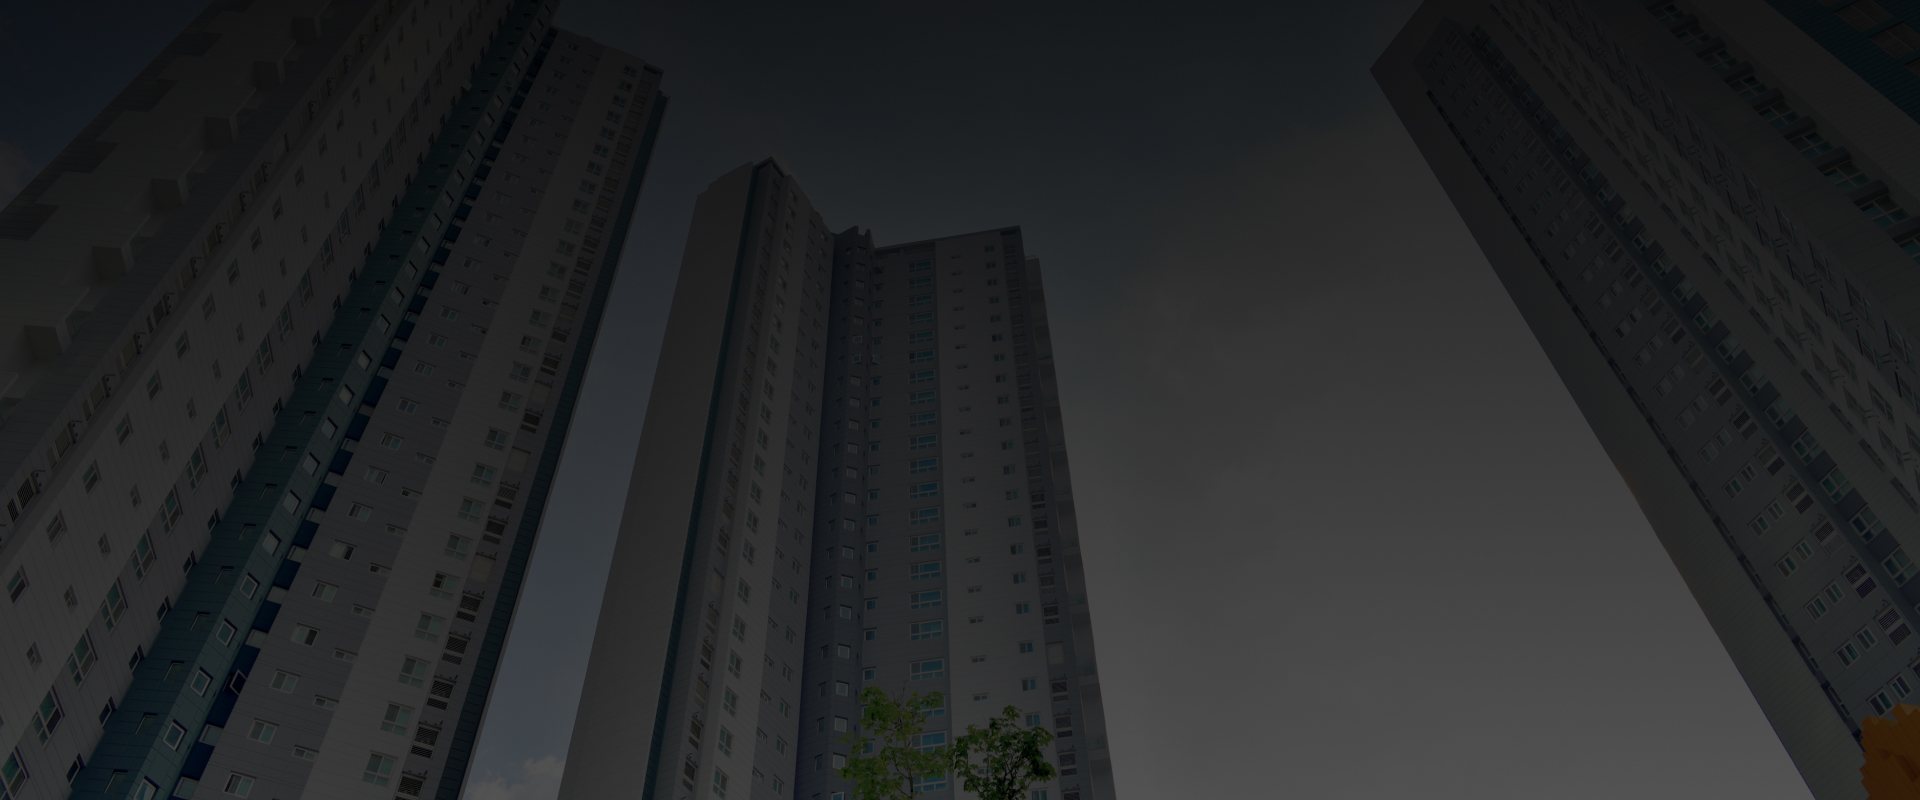
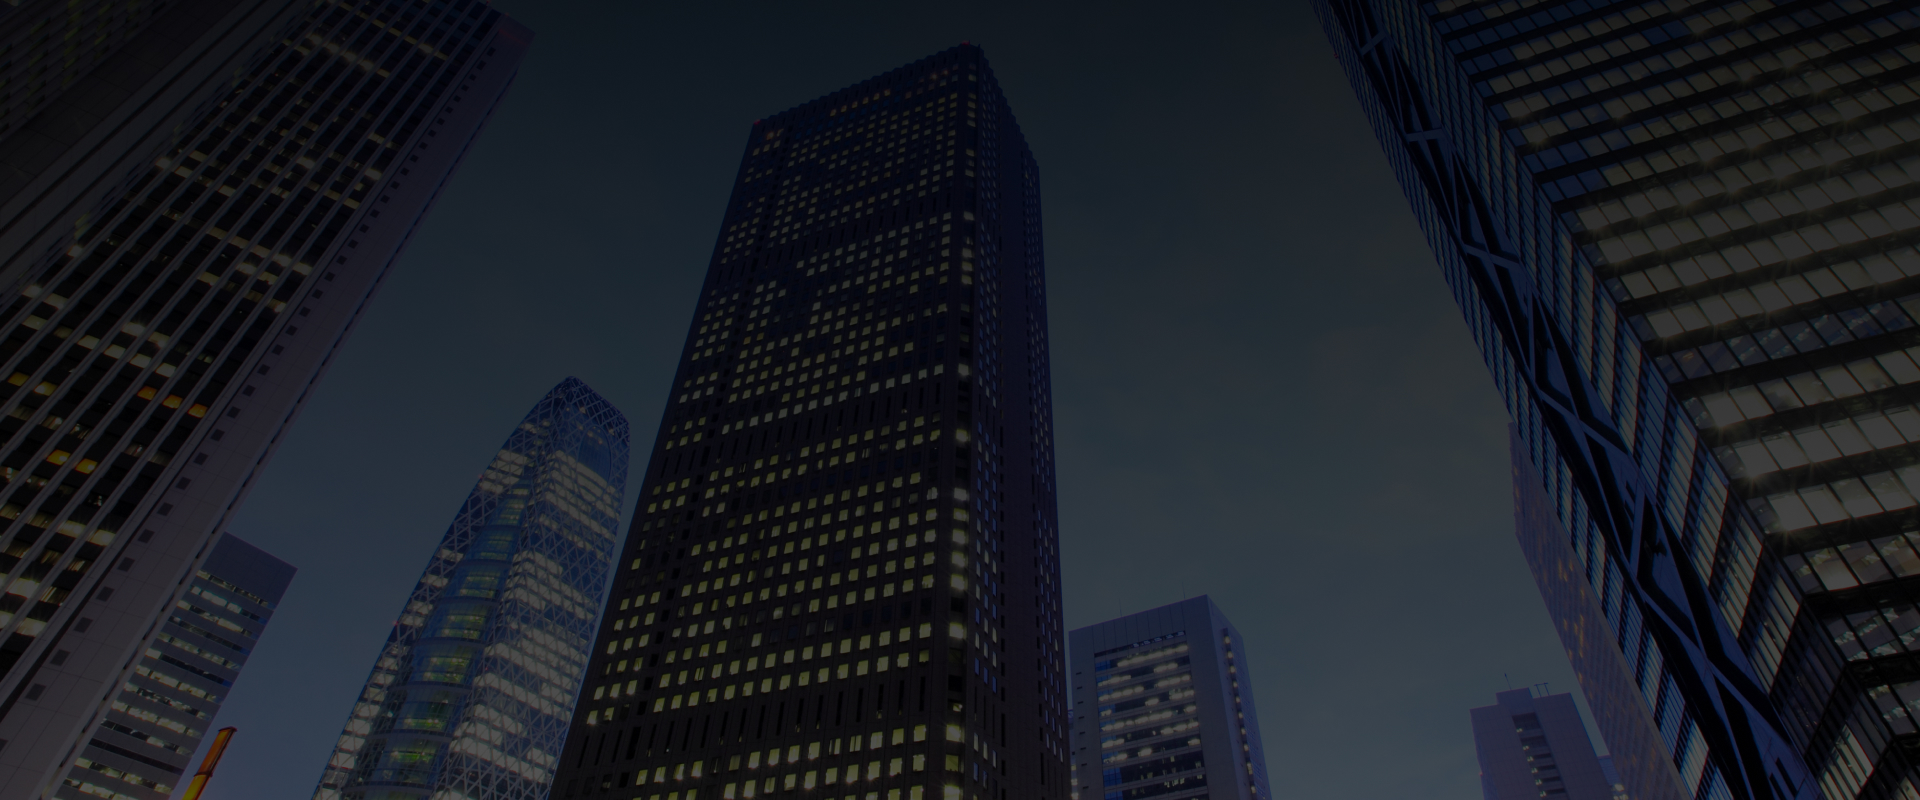
zz

diff --git a/assets/css/sub.css b/assets/css/sub.css
@@ -185,15 +185,17 @@
 .orgTop{position: relative;display: flex;flex-direction: column;align-items: center;}
 .orgTop .board{position: relative;}
 .orgTop .board:before{content: "";position: absolute;left: -25px;top: -25px;width: 250px;height: 250px;background:#FFF;border-radius: 100%;border: 1px dashed #0083CA;box-sizing: border-box;z-index: 0;}
-.orgTop .board:after{content:"";position: absolute;left: 50%;top: 225px;width: 1px;height: 100px;background:#BCBCBC;transform: translateX(-50%);}
+/* 추가수정 start */
+.orgTop .board:after{content:"";position: absolute;left: 50%;top: 225px;width: 1px;height: 105px;background:#BCBCBC;transform: translateX(-50%);}
 .orgTop .ceo{position: relative;margin-top: 155px;}
-.orgTop .ceo:before{content: "";position: absolute;left: -30px;top: -30px;width: 300px;height: 300px;background:#FFF;border-radius: 100%;border: 1px dashed #0083CA;box-sizing: border-box;z-index: 0;}
-.orgTop .ceo:after{content:"";position: absolute;left: 50%;bottom: -100px;width: 1px;height: 70px;background:#BCBCBC;transform: translateX(-50%);}
+.orgTop .ceo:before{content: "";position: absolute;left: -25px;top: -25px;width: 250px;height: 250px;background:#FFF;border-radius: 100%;border: 1px dashed #0083CA;box-sizing: border-box;z-index: 0;}
+.orgTop .ceo:after{content:"";position: absolute;left: 50%;bottom: -100px;width: 1px;height: 75px;background:#BCBCBC;transform: translateX(-50%);}
 .orgTop .circle{position: relative;display: flex;justify-content: center;align-items: center;border-radius: 50%;text-align: center;border: 10px solid #C9EBFC;box-sizing: border-box;color:#fff;font-size:30px;color: #FFF;font-weight:700;line-height: 130%;}
 .orgTop .boardCircle{width: 200px;height: 200px;background:#0083CA;z-index: 2;}
-.orgTop .ceoCircle{flex-direction: column;gap: 18px;width: 240px;height: 240px;background:#00A0E1;}
+.orgTop .ceoCircle{flex-direction: column;gap: 18px;width: 200px;height: 200px;background:#00A0E1;}
 .orgTop .ceoSub{position: absolute;top: -155px;right: -443px;}
-.orgTop .ceoSub:before{content:"";position:absolute;width: 404px;height: 1px;background: #BCBCBC;left: -404px;top: 80px;}
+.orgTop .ceoSub:before{content:"";position:absolute;width: 385px;height: 1px;background: #BCBCBC;left: -383px;top: 80px;}
+/* 추가수정 end */
 .orgTop .auditCircle{width: 160px;height: 160px;border: 1px solid #0083CA;background:#fff;color: #0083CA;font-size: 28px;}
 .divisionList{position: relative;display: flex;justify-content: space-between;align-items: flex-start;margin-top: 150px;}
 .divisionList:before{content:"";position:absolute;top: -50px;left: 50%;width: 1104px;height: 1px;margin-left: -552px;background: #BCBCBC;}
@@ -214,8 +216,9 @@
 .divisionList .division:nth-child(2) .department{width: calc(50% - 16px);}
 .divisionList .division:nth-child(2) .departmentList:before{content:"";position:absolute;left: 24%;top: 210px;width: 52%;height: 1px;background: #BCBCBC;}
 .divisionList .division:nth-child(2) .department:before{content:"";position:absolute;left:50%;top: -43px;width: 1px;height: 100%;background: #BCBCBC;transform:translateX(-50%);}
-.divisionList .division:nth-child(2) .department:nth-child(2) .departmentBody{/* height: 100%; */}
+.divisionList .division:nth-child(2) .department:nth-child(2) .departmentBody{/* height: 100%; */margin-top: 109px;}/* 20260819 */
 .divisionList .division:last-child .departmentList{margin-top: 252px;}
+.divisionList .division:last-child .departmentList .departmentHead{background: #FFF;border-color: #beecff;}/* 20260819 */
 .divisionList .division:last-child .department:before{display: none;}
 
 .locationWrap{padding: 64px 0 160px;}
@@ -356,8 +359,8 @@
 .clientArea ul li, .woorifsArea ul li{position: relative;display: flex;flex-direction: column;}
 .clientArea ul li:nth-child(2){margin-top: 197px;}
 .clientArea ul li:nth-child(3){margin-top: 64px;}
-.clientArea ul li:nth-child(4){margin-top: 235px;}
-.clientArea ul li:nth-child(5){margin-top: 225px;}
+.clientArea ul li:nth-child(4){margin-top: 64px;}/* 20260819 */
+.clientArea ul li:nth-child(5){margin-top: 390px;}/* 20260819 */
 .woorifsArea ul li:nth-child(2){margin-top: 64px;}
 .woorifsArea ul li:nth-child(3){margin-top: 64px;}
 .woorifsArea ul li:nth-child(4){margin-top: 64px;}
@@ -381,8 +384,9 @@
 .timeArea ul li:nth-child(1){margin-top: 74px;}
 .timeArea ul li:nth-child(2){margin-top: 279px;}
 .timeArea ul li:nth-child(3){margin-top: 132px;}
-.timeArea ul li:nth-child(4){margin-top: 441px;}
-.timeArea ul li:nth-child(5){margin-top: 275px;}
+.timeArea ul li:nth-child(4){margin-top: 268px;}/* 20260819 */
+.timeArea ul li:nth-child(5){margin-top: 460px;margin-right: 150px !important;}/* 20260819 */
+.timeArea ul li:nth-child(5):after{right: 24px !important;}/* 20260819 */
 .timeArea ul li:nth-child(odd){margin-right: 90px;}
 .timeArea ul li:nth-child(even){margin-left: 90px;}
 .timeArea ul li:nth-child(odd):after{content: "";position: absolute;right: 84px;top: 9px;display: block;width: 12px;height: 12px;background: #0083CA;border-radius: 100%;}
@@ -707,15 +711,17 @@
 
 	.orgWrap{padding: 3.1250vw 0 2.0833vw;}
 	.orgTop .board:before{left: -1.3021vw;top: -1.3021vw;width: 13.0208vw;height: 13.0208vw;}
-	.orgTop .board:after{top: 11.7188vw;width: 0.0521vw;height: 5.2083vw;}
+	/* 추가수정 start */
+	.orgTop .board:after{top: 11.7188vw;width: 0.0521vw;height: 5.4688vw;}
 	.orgTop .ceo{margin-top: 8.0729vw;}
-	.orgTop .ceo:before{left: -1.5625vw;top: -1.5625vw;width: 15.6250vw;height: 15.6250vw;}
-	.orgTop .ceo:after{bottom: -5.2083vw;width: 0.0521vw;height: 3.6458vw;}
+	.orgTop .ceo:before{left: -1.3021vw;top: -1.3021vw;width: 13.0208vw;height: 13.0208vw;}
+	.orgTop .ceo:after{bottom: -5.2083vw;width: 0.0521vw;height: 3.9063vw;}
 	.orgTop .circle{font-size:1.5625vw;}
 	.orgTop .boardCircle{width: 10.4167vw;height: 10.4167vw;}
-	.orgTop .ceoCircle{gap: 0.9375vw;width: 12.5000vw;height: 12.5000vw;}
+	.orgTop .ceoCircle{gap: 0.9375vw;width: 10.4167vw;height: 10.4167vw;}
 	.orgTop .ceoSub{top: -8.0729vw;right: -23.0729vw;}
-	.orgTop .ceoSub:before{width: 21.0417vw;height: 0.0521vw;background: #BCBCBC;left: -21.0417vw;top: 4.1667vw;}
+	.orgTop .ceoSub:before{width: 20.0521vw;height: 0.0521vw;background: #BCBCBC;left: -19.9479vw;top: 4.1667vw;}
+	/* 추가수정 end */
 	.orgTop .auditCircle{width: 8.3333vw;height: 8.3333vw;font-size: 1.4583vw;}
 	.divisionList{margin-top: 7.8125vw;}
 	.divisionList:before{top: -2.6042vw;width: 69.7917vw;height: 0.0521vw;margin-left: -34.8958vw;width: 57.5000vw;margin-left: -28.7500vw;}
@@ -735,6 +741,7 @@
 	.divisionList .division:nth-child(2) .department{width: calc(50% - 0.8333vw);}
 	.divisionList .division:nth-child(2) .departmentList:before{left: 24%;top: 10.9375vw;width: 52%;height: 0.0521vw;}
 	.divisionList .division:nth-child(2) .department:before{top: -2.2396vw;width: 0.0521vw;}
+	.divisionList .division:nth-child(2) .department:nth-child(2) .departmentBody{margin-top: 5.6771vw;}/* 20260819 */
 	.divisionList .division:last-child .departmentList{margin-top: 13.1250vw;}
 
 	.locationWrap{padding: 3.3333vw 0 8.3333vw;}
@@ -837,8 +844,8 @@
 	.woorifsArea ul:after{bottom: 5.4688vw;width: 0.7813vw;height: 0.4688vw;margin-left: -0.3646vw;}
 	.clientArea ul li:nth-child(2){margin-top: 10.2604vw;}
 	.clientArea ul li:nth-child(3){margin-top: 3.3333vw;}
-	.clientArea ul li:nth-child(4){margin-top: 12.2396vw;}
-	.clientArea ul li:nth-child(5){margin-top: 11.7188vw;}
+	.clientArea ul li:nth-child(4){margin-top: 3.3333vw;}/* 20260819 */
+	.clientArea ul li:nth-child(5){margin-top: 20.3125vw;}/* 20260819 */
 	.woorifsArea ul li:nth-child(2){margin-top: 3.3333vw;}
 	.woorifsArea ul li:nth-child(3){margin-top: 3.3333vw;}
 	.woorifsArea ul li:nth-child(4){margin-top: 3.3333vw;}
@@ -856,8 +863,9 @@
 	.timeArea ul li:nth-child(1){margin-top: 3.8542vw;}
 	.timeArea ul li:nth-child(2){margin-top: 14.5313vw;}
 	.timeArea ul li:nth-child(3){margin-top: 6.8750vw;}
-	.timeArea ul li:nth-child(4){margin-top: 22.9688vw;}
-	.timeArea ul li:nth-child(5){margin-top: 14.3229vw;}
+	.timeArea ul li:nth-child(4){margin-top: 13.9583vw;}/* 20260819 */
+	.timeArea ul li:nth-child(5){margin-top: 23.9583vw;margin-right: 7.8125vw !important;}/* 20260819 */
+	.timeArea ul li:nth-child(5):after{right: 1.2500vw !important;}/* 20260819 */
 	.timeArea ul li:nth-child(odd){margin-right: 4.6875vw;}
 	.timeArea ul li:nth-child(even){margin-left: 4.6875vw;}
 	.timeArea ul li:nth-child(odd):after{right: 4.3750vw;top: 0.4688vw;width: 0.6250vw;height: 0.6250vw;}
@@ -1304,17 +1312,19 @@
 	.divisionList .division:nth-child(2) .department:before{top: -22px;width: 1px;}
 	.divisionList .division:last-child .departmentList{margin-top: 0;} */
 
+	/* 추가수정 start */
 	.orgWrap{padding: 3.0769vw 0;}
 	.orgTop .board:before{left: -3.0769vw;top: -3.0769vw;width: 46.1538vw;height: 46.1538vw;}
 	.orgTop .board:after{top: 43.0769vw;width: 0.2564vw;height: 43.5897vw;}
 	.orgTop .ceo{margin-top: 43.5897vw;}
-	.orgTop .ceo:before{left: -5.1282vw;top: -5.1282vw;width: 56.4103vw;height: 56.4103vw;}
-	.orgTop .ceo:after{bottom: -25.6410vw;width: 0.2564vw;height: 20.5128vw;}
+	.orgTop .ceo:before{left: -3.0769vw;top: -3.0769vw;width: 46.1538vw;height: 46.1538vw;}
+	.orgTop .ceo:after{bottom: -25.6410vw;width: 0.2564vw;height: 22.5128vw;}
 	.orgTop .circle{font-size: 6.1538vw;}
 	.orgTop .boardCircle{width: 39.7436vw;height: 39.7436vw;border: 2.0513vw solid #C9EBFC;}
-	.orgTop .ceoCircle{gap: 2.5641vw;width: 46.1538vw;height: 46.1538vw;}
+	.orgTop .ceoCircle{gap: 2.5641vw;width: 39.7436vw;height: 39.7436vw;}
 	.orgTop .ceoSub{top: -38.4615vw;right: -20.5128vw;}
-	.orgTop .ceoSub:before{width: 12.8205vw;height: 0.2564vw;background: #BCBCBC;left: -12.5641vw;top: 15.3846vw;}
+	.orgTop .ceoSub:before{width: 10.8205vw;height: 0.2564vw;background: #BCBCBC;left: -9.5641vw;top: 15.3846vw;}
+	/* 추가수정 end */
 	.orgTop .auditCircle{width: 30.7692vw;height: 30.7692vw;font-size: 5.6410vw;}
 	.divisionList{margin-top: 25.6410vw;flex-direction: column;gap: 12.3077vw;}
 	.divisionList:before{display: none;}

diff --git a/page/0302.html b/page/0302.html
@@ -239,11 +239,11 @@
                                 <p>운용지시<br />당일거래내역</p>
                             </li>
                             <li>
-                                <em>17:00</em>
+                                <em>18:00</em><!-- 20260819 -->
                                 <span>현금잔고 마감</span>
                             </li>
                             <li>
-                                <em>18:00</em>
+                                <em>18:00 이후</em><!-- 20260819 -->
                                 <span>업무 마감</span>
                             </li>
                         </ul>
@@ -257,8 +257,8 @@
                                 <li>09:00</li>
                                 <li>14:00</li>
                                 <li>16:00</li>
-                                <li>17:00</li>
-                                <li>18:00</li>
+                                <li>18:00</li><!-- 20260819 -->
+                                <li>18:00 이후</li><!-- 20260819 -->
                             </ul>
                         </div>
                     </div>

diff --git a/page/0105.html b/page/0105.html
@@ -248,11 +248,11 @@
                             <li class="division">
                                 <div class="divisionHead">
                                     혁신성장부문
-                                    <span>(CPO)</span>
+                                    <!-- <span>(CPO)</span> --><!-- 20260819 -->
                                 </div>
                                 <ul class="departmentList">
                                     <li class="department">
-                                        <div class="departmentHead">플랫폼혁신본부(CISO)</div>
+                                        <div class="departmentHead">플랫폼혁신본부<!-- (CISO) --><!-- 20260819 --></div>
                                         <div class="departmentBody">
                                             <ul>
                                                 <li>OMS플랫폼부</li>
